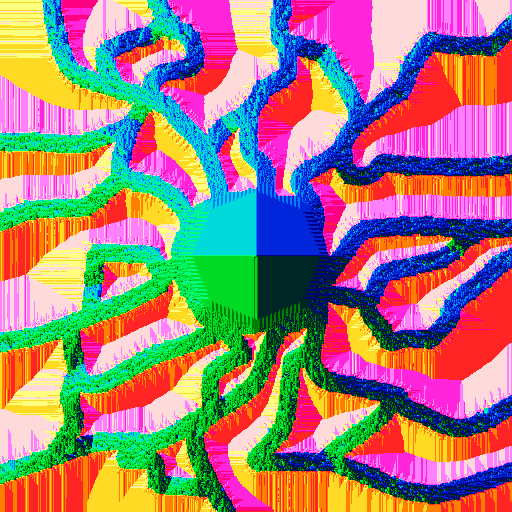
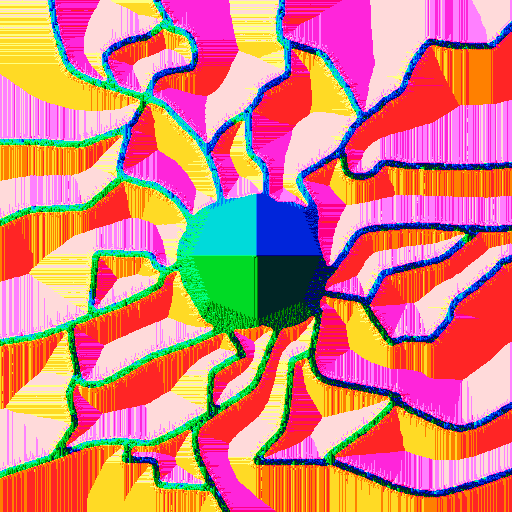
Boids Improved
They follow the paths much more closely and jitter a lot less now due to some value tweaks, adding interpolation on the velocity changes, and more rigid interpretation of paths.

diff --git a/Assets/Game/Pen/Laochra/AITesting/EnemyLogic.cs b/Assets/Game/Pen/Laochra/AITesting/EnemyLogic.cs
@@ -22,21 +22,28 @@ public class EnemyLogic : MonoBehaviour
 {
     // Values
     [SerializeField] float speed;
+    [SerializeField] float steeringForce;
+    [SerializeField] float rotateSpeed;
 
-    [Header("Influences"), SerializeField, Range(0.0f, 1.0f)] private float targetingStrength = 0.2f;
+    [Header("Influences"), SerializeField, Range(0.0f, 5.0f)] private float targetingStrength = 0.2f;
     [Space()]
     [SerializeField] private float alignmentRange = 4.0f;
-    [SerializeField, Range(0.0f, 1.0f)] private float alignmentStrength = 0.1f;
+    [SerializeField, Range(0.0f, 5.0f)] private float alignmentStrength = 0.1f;
     [Space()]
     [SerializeField] private float cohesionRange = 3.0f;
-    [SerializeField, Range(0.0f, 1.0f)] private float cohesionStrength = 0.2f;
+    [SerializeField, Range(0.0f, 5.0f)] private float cohesionStrength = 0.2f;
     [Space()]
     [SerializeField] private float seperationRange = 2.0f;
-    [SerializeField, Range(0.0f, 1.0f)] private float seperationStrength = 1.0f;
+    [SerializeField, Range(0.0f, 5.0f)] private float seperationStrength = 1.0f;
+
+    private float NeighbourhoodRange
+    {
+        get => Mathf.Max(alignmentRange, cohesionStrength, seperationRange);
+    }
     // Components
     private new Transform transform;
     private new Rigidbody rigidbody;
-    public LevelDataGrid levelData;
+    [HideInInspector] public LevelDataGrid levelData;
 
     private LayerMask boidLayers;
 
@@ -60,9 +67,9 @@ public class EnemyLogic : MonoBehaviour
 
         // Get Boids in Neighbourhood
         neighbourhood.Clear();
-        var boidColliderList = Physics.OverlapSphere(transform.position, 4, boidLayers);
+        var boidColliderList = Physics.OverlapSphere(transform.position, NeighbourhoodRange, boidLayers);
 
-        foreach (var boidCollider in boidColliderList)
+        foreach (Collider boidCollider in boidColliderList)
         {
             GameObject boidGameObject = boidCollider.gameObject;
             Transform boidTransform = boidCollider.transform;
@@ -78,11 +85,15 @@ public class EnemyLogic : MonoBehaviour
         newVelocity += Cohere();
         newVelocity += Seperate();
 
-        rigidbody.velocity = speed * newVelocity.normalized;
+        rigidbody.velocity = speed * Vector3.MoveTowards(rigidbody.velocity.normalized, newVelocity.normalized, steeringForce);
 
         // Face Direction of Movement
         if (rigidbody.velocity != Vector3.zero)
-            transform.forward = rigidbody.velocity;
+        {
+            transform.forward = rigidbody.velocity.normalized;
+            //Quaternion toRotation = Quaternion.LookRotation(rigidbody.velocity.normalized, Vector3.up);
+            //transform.rotation = Quaternion.RotateTowards(transform.rotation, toRotation, rotateSpeed * Time.deltaTime);
+        }
     }
 
     private bool BoidInRange(Transform boidTransform, float range)
@@ -98,7 +109,8 @@ public class EnemyLogic : MonoBehaviour
         {
             if (BoidInRange(boid.transform, alignmentRange))
             {
-                alignmentInfluence += boid.rigidbody.velocity;
+                alignmentInfluence += boid.rigidbody.velocity
+                    / (boid.transform.position - transform.position).magnitude;
             }
         }
 
@@ -113,7 +125,8 @@ public class EnemyLogic : MonoBehaviour
         {
             if (BoidInRange(boid.transform, cohesionRange))
             {
-                cohesionInfluence += (boid.transform.position - gameObject.transform.position).normalized;
+                cohesionInfluence += (boid.transform.position - gameObject.transform.position).normalized
+                    / (boid.transform.position - transform.position).magnitude;
             }
         }
 
@@ -128,7 +141,8 @@ public class EnemyLogic : MonoBehaviour
         {
             if (BoidInRange(boid.transform, seperationRange))
             {
-                seperationInfluence -= (boid.transform.position - gameObject.transform.position).normalized;
+                seperationInfluence -= (boid.transform.position - gameObject.transform.position).normalized
+                    / (boid.transform.position - transform.position).magnitude;
             }
         }
 

diff --git a/Assets/Game/Production/Level Data/Editor/LevelData.cs b/Assets/Game/Production/Level Data/Editor/LevelData.cs
@@ -231,7 +231,7 @@ public class LevelData : ScriptableObject
         {
             for (int z = 0; z < tiles.GetLength(1); z++)
             {
-                if (textureMap.GetPixel(x, z).r == float.Epsilon + 1)
+                if (textureMap.GetPixel(x, z).r > 0.05f)
                     tiles[x, z].muddy = true;
             }
         }
@@ -410,7 +410,7 @@ public class LevelData : ScriptableObject
 
         byte[] bytes = texture.EncodeToPNG();
 
-        var directory = Application.dataPath + "/Game/Production/Pathfinding/";
+        var directory = Application.dataPath + "/Game/Production/Level Data/";
         if (!Directory.Exists(directory))
         {
             Directory.CreateDirectory(directory);

diff --git a/Assets/Game/Pen/Laochra/AITesting/EnemySpawner.cs b/Assets/Game/Pen/Laochra/AITesting/EnemySpawner.cs
@@ -25,7 +25,7 @@ public class EnemySpawner : MonoBehaviour
         for (int boidIndex = 0; boidIndex < amount; boidIndex++)
         {
             Quaternion rotation = new(0, Random.Range(-1.0f, 1.0f), 0.0f, 0.0f);
-            Vector3 position = transform.position + new Vector3(Random.Range(-120.0f, 120.0f), 0.0f, Random.Range(-120.0f, 120.0f));
+            Vector3 position = transform.position + new Vector3(Random.Range(-60.0f, 60.0f), 0.0f, Random.Range(-60.0f, 60.0f));
 
             GameObject boidGameObject = Instantiate(boidPrefab, position, rotation, transform);
             Transform boidTransform = boidGameObject.transform;
